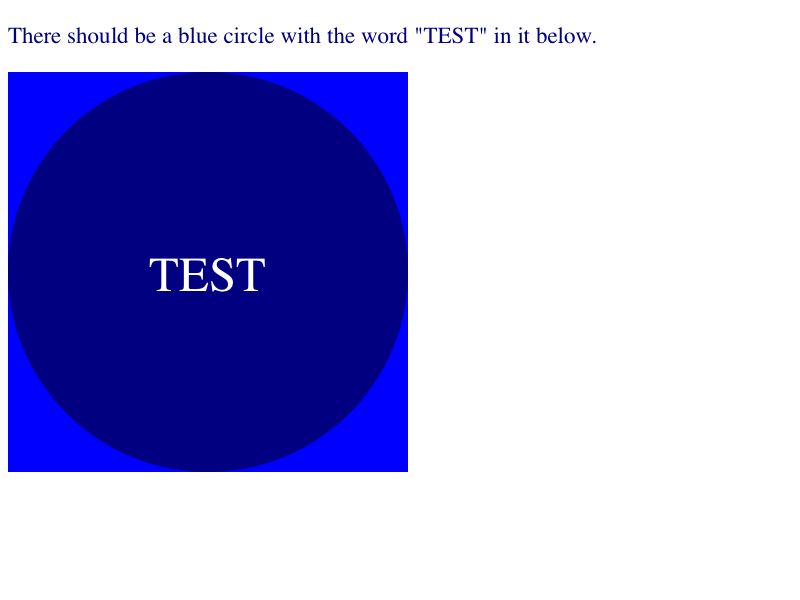
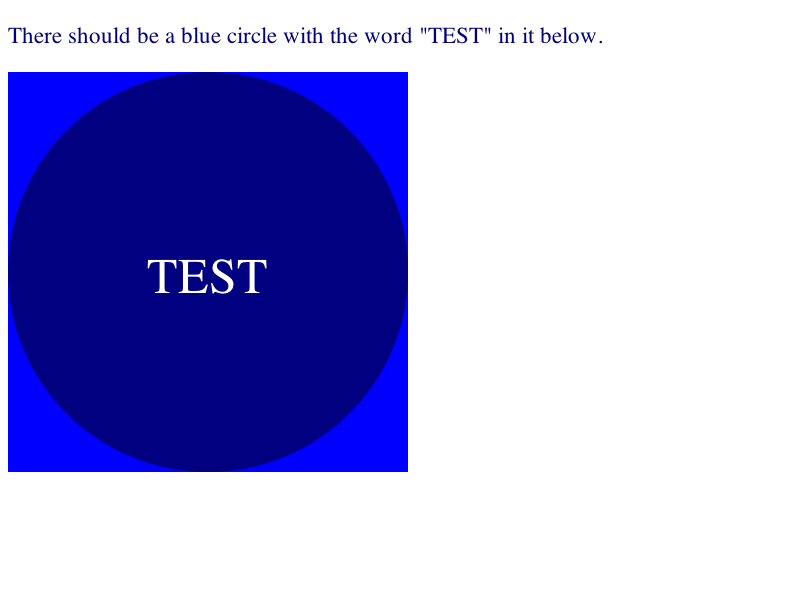
Unreviewed, reverting 284310@main. https://bugs.webkit.org/show_bug.cgi?id=283990
It caused wrong line height in SVG text when zooming in the page

Reverted changeset:

"font-relative units of svg elements don't take zoom factors into account"
https://bugs.webkit.org/show_bug.cgi?id=199236
https://commits.webkit.org/284310@main

Canonical link: https://commits.webkit.org/287302@main

Changed region(s): [[0.0312, 0.03, 0.75, 0.09], [0.1875, 0.42, 0.3438, 0.51]]

diff --git a/Source/WebCore/css/svg.css b/Source/WebCore/css/svg.css
@@ -94,9 +94,3 @@ text, tspan, tref {
 a:any-link {
     cursor: pointer;
 }
-
-/* WebKit handles zooming for SVG in a different way. font-size has to be resolved at root elements of included documents. */
-
-*|*:not(*) > svg, foreignObject > *|*:not(*) {
-    font-size: inherit;
-}

diff --git a/Source/WebCore/style/StyleBuilderState.cpp b/Source/WebCore/style/StyleBuilderState.cpp
@@ -262,7 +262,7 @@ void BuilderState::updateFontForOrientationChange()
 void BuilderState::setFontSize(FontCascadeDescription& fontDescription, float size)
 {
     fontDescription.setSpecifiedSize(size);
-    fontDescription.setComputedSize(Style::computedFontSizeFromSpecifiedSize(size, fontDescription.isAbsoluteSize(), false, &style(), document()));
+    fontDescription.setComputedSize(Style::computedFontSizeFromSpecifiedSize(size, fontDescription.isAbsoluteSize(), useSVGZoomRules(), &style(), document()));
 }
 
 CSSPropertyID BuilderState::cssPropertyID() const
